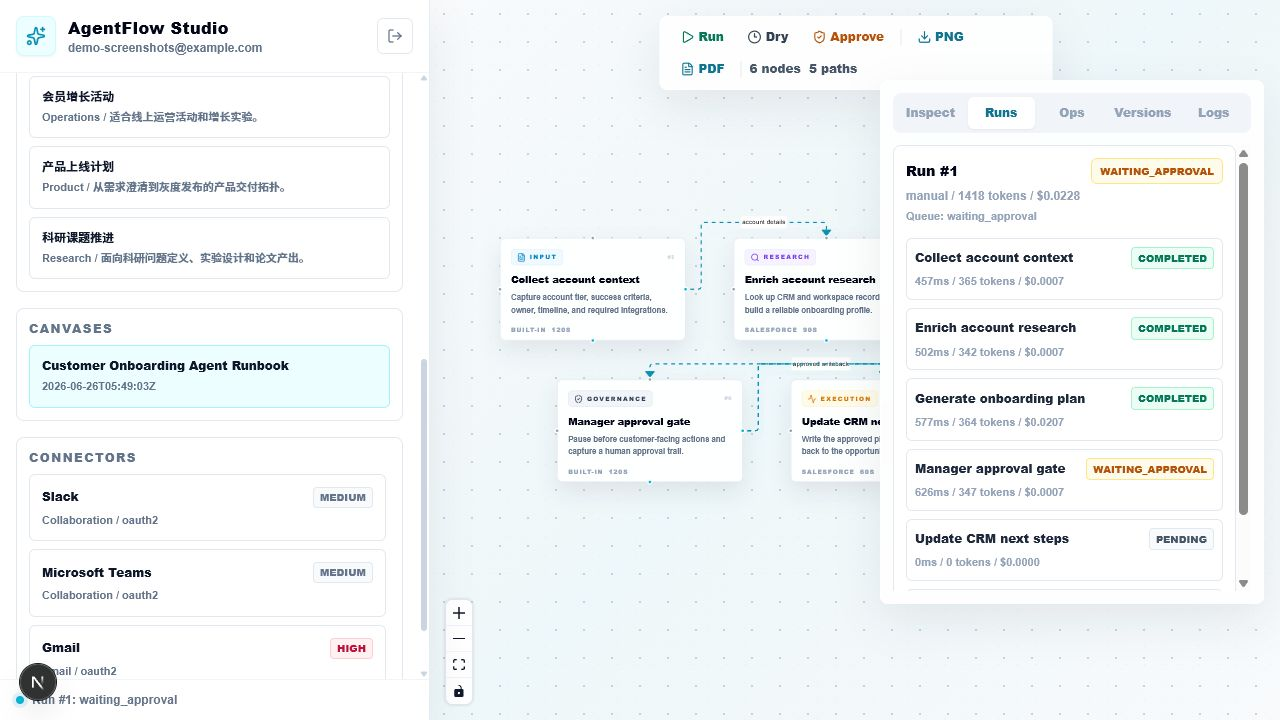
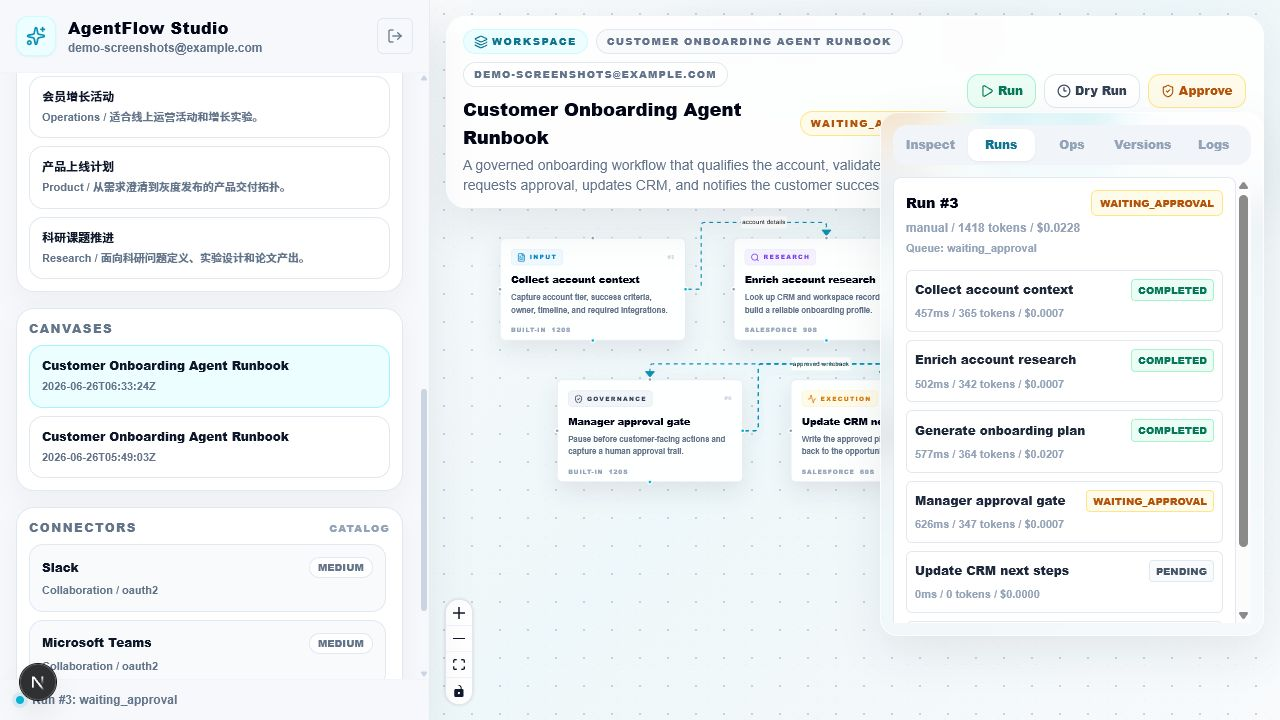
Polish frontend and refresh product screenshots

diff --git a/canvas-frontend/app/page.tsx b/canvas-frontend/app/page.tsx
@@ -227,6 +227,19 @@ const statusClass = (status: string) => {
   return 'border-cyan-200 bg-cyan-50 text-cyan-700';
 };
 
+const formatStatusLabel = (value: string) =>
+  value
+    .replaceAll('_', ' ')
+    .replace(/\b\w/g, (char) => char.toUpperCase());
+
+const kpiTone = (index: number) =>
+  [
+    'from-cyan-50 to-white border-cyan-100 text-cyan-700',
+    'from-slate-50 to-white border-slate-200 text-slate-700',
+    'from-emerald-50 to-white border-emerald-100 text-emerald-700',
+    'from-violet-50 to-white border-violet-100 text-violet-700',
+  ][index % 4];
+
 const createNodes = (items: CanvasNode[]): AgentNode[] =>
   items.map((node, index) => {
     const col = index % 3;
@@ -635,91 +648,147 @@ export default function CanvasPage() {
 
   if (!user) {
     return (
-      <main className="flex h-dvh items-center justify-center bg-[#f6f8fb] px-4 text-slate-900">
-        <div className="w-full max-w-md rounded-[8px] border border-slate-200 bg-white p-6 shadow-[0_24px_70px_rgba(15,23,42,0.08)]">
-          <div className="flex items-center gap-3">
-            <div className="flex h-11 w-11 items-center justify-center rounded-[8px] border border-cyan-100 bg-cyan-50 text-cyan-700"><Sparkles className="h-5 w-5" /></div>
-            <div><h1 className="text-lg font-black">AgentFlow Studio</h1><p className="text-xs font-semibold text-slate-500">Enterprise workflow control plane</p></div>
+      <main className="relative flex h-dvh items-center justify-center overflow-hidden bg-[#f6f8fb] px-4 text-slate-900">
+        <div className="absolute inset-0 bg-[linear-gradient(135deg,#f8fafc_0%,#edf8fb_48%,#f8fafc_100%)]" />
+        <div className="absolute inset-0 opacity-45 [background-image:radial-gradient(#94a3b8_1px,transparent_1px)] [background-size:28px_28px]" />
+        <div className="relative w-full max-w-[1160px] overflow-hidden rounded-[24px] border border-white/80 bg-white/85 shadow-[0_24px_90px_rgba(15,23,42,0.12)] backdrop-blur-xl">
+          <div className="grid gap-0 md:grid-cols-[1.15fr_0.85fr]">
+            <div className="flex flex-col justify-between border-b border-slate-100 px-8 py-8 md:border-b-0 md:border-r md:px-10 md:py-10">
+              <div>
+                <div className="inline-flex items-center gap-2 rounded-full border border-cyan-100 bg-cyan-50 px-3 py-1 text-[11px] font-black uppercase tracking-[0.18em] text-cyan-700">
+                  <Sparkles className="h-3.5 w-3.5" />
+                  AgentFlow Studio
+                </div>
+                <h1 className="mt-5 max-w-xl text-4xl font-black tracking-tight text-slate-950 md:text-5xl">Enterprise AI workflow orchestration, built for real operations.</h1>
+                <p className="mt-4 max-w-xl text-sm leading-7 text-slate-500 md:text-[15px]">Generate DAGs, run workflows, approve human gates, observe execution, and export delivery-ready artifacts from one workspace.</p>
+                <div className="mt-8 grid gap-3 sm:grid-cols-3">
+                  {[
+                    ['Runs', 'queue + approvals'],
+                    ['Connectors', 'catalog + audit'],
+                    ['Exports', 'PNG + PDF'],
+                  ].map(([title, desc]) => (
+                    <div key={title} className="rounded-[18px] border border-slate-200 bg-white/90 p-4">
+                      <div className="text-xs font-black uppercase tracking-[0.12em] text-slate-400">{title}</div>
+                      <div className="mt-2 text-sm font-semibold text-slate-900">{desc}</div>
+                    </div>
+                  ))}
+                </div>
+              </div>
+              <div className="mt-8 flex flex-wrap items-center gap-2 text-xs font-semibold text-slate-400">
+                <span className="rounded-full border border-slate-200 bg-white px-3 py-1">FastAPI</span>
+                <span className="rounded-full border border-slate-200 bg-white px-3 py-1">React Flow</span>
+                <span className="rounded-full border border-slate-200 bg-white px-3 py-1">Gemini</span>
+                <span className="rounded-full border border-slate-200 bg-white px-3 py-1">Docker Compose</span>
+              </div>
+            </div>
+
+            <div className="px-8 py-8 md:px-10 md:py-10">
+              <div className="flex items-center gap-3">
+                <div className="flex h-11 w-11 items-center justify-center rounded-[14px] border border-cyan-100 bg-cyan-50 text-cyan-700"><LockKeyhole className="h-5 w-5" /></div>
+                <div>
+                  <h2 className="text-lg font-black text-slate-950">Sign in</h2>
+                  <p className="text-xs font-semibold text-slate-500">Use the workspace to create and run workflows.</p>
+                </div>
+              </div>
+              <div className="mt-6 grid grid-cols-2 gap-1 rounded-[16px] bg-slate-100 p-1 text-sm font-black">
+                <button onClick={() => setAuthMode('login')} className={`rounded-[12px] py-2.5 ${authMode === 'login' ? 'bg-white text-cyan-700 shadow-sm' : 'text-slate-400'}`}>Login</button>
+                <button onClick={() => setAuthMode('register')} className={`rounded-[12px] py-2.5 ${authMode === 'register' ? 'bg-white text-cyan-700 shadow-sm' : 'text-slate-400'}`}>Register</button>
+              </div>
+              <div className="mt-4 space-y-3">
+                <input value={email} onChange={(event) => setEmail(event.target.value)} placeholder="Email" className="h-12 w-full rounded-[14px] border border-slate-200 bg-white px-4 text-sm font-semibold outline-none focus:border-cyan-400 focus:ring-4 focus:ring-cyan-100" />
+                <input value={password} onChange={(event) => setPassword(event.target.value)} placeholder="Password" type="password" className="h-12 w-full rounded-[14px] border border-slate-200 bg-white px-4 text-sm font-semibold outline-none focus:border-cyan-400 focus:ring-4 focus:ring-cyan-100" />
+                <button onClick={handleAuth} disabled={loading} className="inline-flex h-12 w-full items-center justify-center gap-2 rounded-[14px] bg-slate-950 text-sm font-black text-white transition hover:bg-cyan-700 disabled:bg-slate-300">
+                  {loading ? <Loader2 className="h-4 w-4 animate-spin" /> : <LockKeyhole className="h-4 w-4" />}
+                  {authMode === 'login' ? 'Enter workspace' : 'Create account'}
+                </button>
+              </div>
+              {error && <p className="mt-3 rounded-[14px] border border-amber-200 bg-amber-50 p-3 text-sm font-semibold text-amber-800">{error}</p>}
+            </div>
           </div>
-          <div className="mt-6 grid grid-cols-2 gap-1 rounded-[8px] bg-slate-100 p-1 text-sm font-black">
-            <button onClick={() => setAuthMode('login')} className={`rounded-md py-2 ${authMode === 'login' ? 'bg-white text-cyan-700 shadow-sm' : 'text-slate-400'}`}>Login</button>
-            <button onClick={() => setAuthMode('register')} className={`rounded-md py-2 ${authMode === 'register' ? 'bg-white text-cyan-700 shadow-sm' : 'text-slate-400'}`}>Register</button>
-          </div>
-          <div className="mt-4 space-y-3">
-            <input value={email} onChange={(event) => setEmail(event.target.value)} placeholder="Email" className="h-11 w-full rounded-[8px] border border-slate-200 px-3 text-sm font-semibold outline-none focus:border-cyan-400 focus:ring-4 focus:ring-cyan-100" />
-            <input value={password} onChange={(event) => setPassword(event.target.value)} placeholder="Password" type="password" className="h-11 w-full rounded-[8px] border border-slate-200 px-3 text-sm font-semibold outline-none focus:border-cyan-400 focus:ring-4 focus:ring-cyan-100" />
-            <button onClick={handleAuth} disabled={loading} className="inline-flex h-11 w-full items-center justify-center gap-2 rounded-[8px] bg-slate-950 text-sm font-black text-white transition hover:bg-cyan-700 disabled:bg-slate-300">
-              {loading ? <Loader2 className="h-4 w-4 animate-spin" /> : <LockKeyhole className="h-4 w-4" />}
-              {authMode === 'login' ? 'Enter workspace' : 'Create account'}
-            </button>
-          </div>
-          {error && <p className="mt-3 rounded-[8px] border border-amber-200 bg-amber-50 p-3 text-sm font-semibold text-amber-800">{error}</p>}
         </div>
       </main>
     );
   }
 
   return (
-    <main className="flex h-dvh w-screen flex-col overflow-hidden bg-[#f6f8fb] text-slate-900 antialiased md:flex-row">
-      <aside className="z-20 flex h-[62dvh] shrink-0 flex-col border-b border-slate-200/80 bg-white/95 shadow-[0_18px_44px_rgba(15,23,42,0.08)] backdrop-blur-2xl md:h-full md:w-[430px] md:border-b-0 md:border-r">
+    <main className="relative flex h-dvh w-screen flex-col overflow-hidden bg-[#f6f8fb] text-slate-900 antialiased md:flex-row">
+      <aside className="z-20 flex h-[62dvh] shrink-0 flex-col border-b border-slate-200/80 bg-white/92 shadow-[0_18px_44px_rgba(15,23,42,0.08)] backdrop-blur-2xl md:h-full md:w-[430px] md:border-b-0 md:border-r">
         <div className="border-b border-slate-100 px-4 py-4">
           <div className="flex items-center justify-between gap-4">
             <div className="flex min-w-0 items-center gap-3">
-              <div className="flex h-10 w-10 shrink-0 items-center justify-center rounded-[8px] border border-cyan-100 bg-cyan-50 text-cyan-600 shadow-sm"><Sparkles className="h-5 w-5" /></div>
-              <div className="min-w-0"><h1 className="truncate text-base font-black tracking-wide text-slate-950">AgentFlow Studio</h1><p className="truncate text-xs font-semibold text-slate-500">{user.email}</p></div>
+              <div className="flex h-10 w-10 shrink-0 items-center justify-center rounded-[12px] border border-cyan-100 bg-cyan-50 text-cyan-600 shadow-sm"><Sparkles className="h-5 w-5" /></div>
+              <div className="min-w-0">
+                <h1 className="truncate text-base font-black tracking-wide text-slate-950">AgentFlow Studio</h1>
+                <p className="truncate text-xs font-semibold text-slate-500">{user.email}</p>
+              </div>
             </div>
             <button onClick={handleLogout} className="flex h-9 w-9 items-center justify-center rounded-md border border-slate-200 text-slate-500 hover:text-rose-600" aria-label="Log out"><LogOut className="h-4 w-4" /></button>
           </div>
         </div>
 
         <div className="sidebar-scroll min-h-0 flex-1 overflow-y-auto px-4 py-4">
-          <div className="grid grid-cols-4 gap-2">
-            {[
-              { label: 'Projects', value: projects.length, icon: <Boxes className="h-4 w-4" /> },
-              { label: 'Canvases', value: canvases.length, icon: <Route className="h-4 w-4" /> },
-              { label: 'Runs', value: runs.length, icon: <Play className="h-4 w-4" /> },
-              { label: 'Connectors', value: connectors.length, icon: <DatabaseZap className="h-4 w-4" /> },
-            ].map((metric) => (
-              <div key={metric.label} className="rounded-[8px] border border-slate-200 bg-slate-50 p-3">
-                <div className="mb-2 text-slate-400">{metric.icon}</div>
-                <div className="font-mono text-lg font-black text-slate-950">{metric.value}</div>
-                <div className="mt-1 truncate text-[10px] font-black uppercase tracking-[0.08em] text-slate-400">{metric.label}</div>
+          <section className="rounded-[18px] border border-slate-200 bg-gradient-to-br from-slate-50 to-white p-4 shadow-[0_12px_26px_rgba(15,23,42,0.04)]">
+            <div className="flex items-end justify-between">
+              <div>
+                <div className="text-[10px] font-black uppercase tracking-[0.18em] text-slate-400">Workspace</div>
+                <div className="mt-1 text-lg font-black text-slate-950">{projects.length} projects</div>
+                <div className="text-xs font-semibold text-slate-500">{canvases.length} canvases, {runs.length} runs</div>
               </div>
-            ))}
-          </div>
-
-          <section className="mt-4 rounded-[8px] border border-slate-200 bg-white p-3">
-            <div className="mb-2 text-xs font-black uppercase tracking-[0.12em] text-slate-500">Projects</div>
-            <div className="grid grid-cols-[1fr_auto] gap-2">
-              <input value={newProjectName} onChange={(event) => setNewProjectName(event.target.value)} placeholder="New project" className="h-9 rounded-md border border-slate-200 px-3 text-xs font-semibold outline-none focus:border-cyan-400" />
-              <button onClick={createProject} className="flex h-9 w-9 items-center justify-center rounded-md bg-slate-950 text-white" aria-label="Create project"><Plus className="h-4 w-4" /></button>
+              <div className="rounded-full border border-cyan-100 bg-cyan-50 px-3 py-1 text-[10px] font-black uppercase tracking-[0.14em] text-cyan-700">Connected</div>
             </div>
-            <div className="mt-3 grid gap-2">
-              {projects.map((project) => (
-                <button key={project.id} onClick={() => selectProject(project.id)} className={`rounded-md border px-3 py-2 text-left text-xs font-bold transition ${projectId === project.id ? 'border-cyan-200 bg-cyan-50 text-cyan-800' : 'border-slate-200 text-slate-600 hover:border-cyan-200'}`}>{project.name}</button>
+            <div className="mt-4 grid grid-cols-2 gap-2">
+              {[
+                { label: 'Projects', value: projects.length, icon: <Boxes className="h-4 w-4" /> },
+                { label: 'Canvases', value: canvases.length, icon: <Route className="h-4 w-4" /> },
+                { label: 'Runs', value: runs.length, icon: <Play className="h-4 w-4" /> },
+                { label: 'Connectors', value: connectors.length, icon: <DatabaseZap className="h-4 w-4" /> },
+              ].map((metric, index) => (
+                <div key={metric.label} className={`rounded-[16px] border bg-gradient-to-br p-3 shadow-sm ${kpiTone(index)}`}>
+                  <div className="mb-2 flex items-center justify-between">
+                    <div className="text-slate-400">{metric.icon}</div>
+                    <div className="font-mono text-xl font-black text-slate-950">{metric.value}</div>
+                  </div>
+                  <div className="text-[10px] font-black uppercase tracking-[0.08em] text-slate-400">{metric.label}</div>
+                </div>
               ))}
             </div>
           </section>
 
-          <section className="mt-4">
+          <section className="mt-4 rounded-[18px] border border-slate-200 bg-white p-3 shadow-[0_12px_26px_rgba(15,23,42,0.04)]">
+            <div className="mb-2 flex items-center justify-between">
+              <div className="text-xs font-black uppercase tracking-[0.12em] text-slate-500">Projects</div>
+              <span className="rounded-full border border-slate-200 bg-slate-50 px-2 py-0.5 text-[10px] font-black uppercase tracking-[0.12em] text-slate-400">Workspace</span>
+            </div>
+            <div className="grid grid-cols-[1fr_auto] gap-2">
+              <input value={newProjectName} onChange={(event) => setNewProjectName(event.target.value)} placeholder="New project" className="h-10 rounded-[12px] border border-slate-200 px-3 text-xs font-semibold outline-none focus:border-cyan-400" />
+              <button onClick={createProject} className="flex h-10 w-10 items-center justify-center rounded-[12px] bg-slate-950 text-white" aria-label="Create project"><Plus className="h-4 w-4" /></button>
+            </div>
+            <div className="mt-3 grid gap-2">
+              {projects.map((project) => (
+                <button key={project.id} onClick={() => selectProject(project.id)} className={`rounded-[14px] border px-3 py-2.5 text-left text-xs font-bold transition ${projectId === project.id ? 'border-cyan-200 bg-cyan-50 text-cyan-800' : 'border-slate-200 text-slate-600 hover:border-cyan-200 hover:bg-slate-50'}`}>{project.name}</button>
+              ))}
+            </div>
+          </section>
+
+          <section className="mt-4 rounded-[18px] border border-slate-200 bg-white p-3 shadow-[0_12px_26px_rgba(15,23,42,0.04)]">
             <div className="mb-2 flex items-center justify-between">
               <label htmlFor="prompt" className="text-xs font-black uppercase tracking-[0.12em] text-slate-500">Prompt</label>
-              <select value={profile} onChange={(event) => setProfile(event.target.value)} className="h-8 rounded-md border border-slate-200 bg-white px-2 text-xs font-bold text-slate-600">
+              <select value={profile} onChange={(event) => setProfile(event.target.value)} className="h-8 rounded-[10px] border border-slate-200 bg-white px-2 text-xs font-bold text-slate-600">
                 {profiles.map((item) => <option key={item.id} value={item.id}>{item.label}</option>)}
               </select>
             </div>
-            <textarea id="prompt" className="h-28 w-full resize-none rounded-[8px] border border-slate-200 bg-white p-3 text-sm font-semibold leading-relaxed text-slate-700 outline-none transition placeholder:text-slate-300 focus:border-cyan-400 focus:ring-4 focus:ring-cyan-100" placeholder="Describe the workflow goal..." value={prompt} onChange={(event) => setPrompt(event.target.value)} />
-            <button type="button" onClick={generateCanvas} disabled={loading || !prompt.trim() || !projectId} className="mt-3 inline-flex h-11 w-full items-center justify-center gap-2 rounded-[8px] bg-slate-950 px-4 text-sm font-black text-white shadow-[0_14px_28px_rgba(15,23,42,0.2)] transition hover:bg-cyan-700 disabled:cursor-not-allowed disabled:bg-slate-300 disabled:shadow-none">
+            <textarea id="prompt" className="h-28 w-full resize-none rounded-[14px] border border-slate-200 bg-white p-3 text-sm font-semibold leading-relaxed text-slate-700 outline-none transition placeholder:text-slate-300 focus:border-cyan-400 focus:ring-4 focus:ring-cyan-100" placeholder="Describe the workflow goal..." value={prompt} onChange={(event) => setPrompt(event.target.value)} />
+            <button type="button" onClick={generateCanvas} disabled={loading || !prompt.trim() || !projectId} className="mt-3 inline-flex h-11 w-full items-center justify-center gap-2 rounded-[14px] bg-slate-950 px-4 text-sm font-black text-white shadow-[0_14px_28px_rgba(15,23,42,0.2)] transition hover:bg-cyan-700 disabled:cursor-not-allowed disabled:bg-slate-300 disabled:shadow-none">
               {loading ? <Loader2 className="h-4 w-4 animate-spin" /> : <WandSparkles className="h-4 w-4" />}
               Generate and Save
             </button>
           </section>
 
-          <section className="mt-4 rounded-[8px] border border-slate-200 bg-white p-3">
+          <section className="mt-4 rounded-[18px] border border-slate-200 bg-white p-3 shadow-[0_12px_26px_rgba(15,23,42,0.04)]">
             <div className="mb-2 text-xs font-black uppercase tracking-[0.12em] text-slate-500">Templates</div>
             <div className="grid gap-2">
               {templates.map((template) => (
-                <button key={template.id} onClick={() => applyTemplate(template)} className="rounded-md border border-slate-200 p-3 text-left transition hover:border-cyan-200 hover:bg-cyan-50">
+                <button key={template.id} onClick={() => applyTemplate(template)} className="rounded-[14px] border border-slate-200 p-3 text-left transition hover:border-cyan-200 hover:bg-cyan-50">
                   <div className="text-xs font-black text-slate-900">{template.name}</div>
                   <div className="mt-1 text-[11px] font-semibold text-slate-500">{template.category} / {template.description}</div>
                 </button>
@@ -727,11 +796,11 @@ export default function CanvasPage() {
             </div>
           </section>
 
-          <section className="mt-4 rounded-[8px] border border-slate-200 bg-white p-3">
+          <section className="mt-4 rounded-[18px] border border-slate-200 bg-white p-3 shadow-[0_12px_26px_rgba(15,23,42,0.04)]">
             <div className="mb-2 text-xs font-black uppercase tracking-[0.12em] text-slate-500">Canvases</div>
             <div className="grid gap-2">
               {canvases.map((canvas) => (
-                <button key={canvas.id} onClick={() => openCanvas(canvas)} className={`rounded-md border p-3 text-left transition ${activeCanvas?.id === canvas.id ? 'border-cyan-200 bg-cyan-50' : 'border-slate-200 hover:border-cyan-200'}`}>
+                <button key={canvas.id} onClick={() => openCanvas(canvas)} className={`rounded-[14px] border p-3 text-left transition ${activeCanvas?.id === canvas.id ? 'border-cyan-200 bg-cyan-50' : 'border-slate-200 hover:border-cyan-200 hover:bg-slate-50'}`}>
                   <div className="text-xs font-black text-slate-900">{canvas.title}</div>
                   <div className="mt-1 text-[11px] font-semibold text-slate-500">{canvas.updated_at}</div>
                 </button>
@@ -739,14 +808,17 @@ export default function CanvasPage() {
             </div>
           </section>
 
-          <section className="mt-4 rounded-[8px] border border-slate-200 bg-white p-3">
-            <div className="mb-2 text-xs font-black uppercase tracking-[0.12em] text-slate-500">Connectors</div>
+          <section className="mt-4 rounded-[18px] border border-slate-200 bg-white p-3 shadow-[0_12px_26px_rgba(15,23,42,0.04)]">
+            <div className="mb-2 flex items-center justify-between">
+              <div className="text-xs font-black uppercase tracking-[0.12em] text-slate-500">Connectors</div>
+              <div className="text-[10px] font-black uppercase tracking-[0.12em] text-slate-400">Catalog</div>
+            </div>
             <div className="grid max-h-64 gap-2 overflow-y-auto pr-1">
               {connectors.map((connector) => (
-                <div key={connector.id} className="rounded-md border border-slate-200 p-3">
+                <div key={connector.id} className="rounded-[14px] border border-slate-200 bg-slate-50 p-3">
                   <div className="flex items-center justify-between gap-2">
                     <div className="text-xs font-black text-slate-900">{connector.name}</div>
-                    <span className={`rounded border px-1.5 py-0.5 text-[10px] font-black uppercase ${connector.risk_level === 'high' ? 'border-rose-200 bg-rose-50 text-rose-700' : 'border-slate-200 bg-slate-50 text-slate-500'}`}>{connector.risk_level}</span>
+                    <span className={`rounded-full border px-2 py-0.5 text-[10px] font-black uppercase ${connector.risk_level === 'high' ? 'border-rose-200 bg-rose-50 text-rose-700' : 'border-slate-200 bg-white text-slate-500'}`}>{connector.risk_level}</span>
                   </div>
                   <div className="mt-1 text-[11px] font-semibold text-slate-500">{connector.category} / {connector.auth_type}</div>
                 </div>
@@ -767,36 +839,70 @@ export default function CanvasPage() {
         <div className="absolute inset-0 bg-[linear-gradient(135deg,#f8fafc_0%,#eef7f9_48%,#f8fafc_100%)]" />
         <div className="absolute inset-0 opacity-45 [background-image:radial-gradient(#94a3b8_1px,transparent_1px)] [background-size:28px_28px]" />
 
+        <div className="absolute left-4 right-4 top-4 z-10 rounded-[20px] border border-white/80 bg-white/90 px-4 py-3 shadow-[0_16px_44px_rgba(15,23,42,0.08)] backdrop-blur-xl">
+          <div className="flex flex-col gap-3 lg:flex-row lg:items-center lg:justify-between">
+            <div className="min-w-0">
+              <div className="flex flex-wrap items-center gap-2">
+                <span className="inline-flex items-center gap-1 rounded-full border border-cyan-100 bg-cyan-50 px-2.5 py-1 text-[10px] font-black uppercase tracking-[0.16em] text-cyan-700">
+                  <Layers3 className="h-3.5 w-3.5" />
+                  Workspace
+                </span>
+                {activeCanvas ? <span className="rounded-full border border-slate-200 bg-slate-50 px-2.5 py-1 text-[10px] font-black uppercase tracking-[0.12em] text-slate-500">{activeCanvas.title}</span> : null}
+                <span className="rounded-full border border-slate-200 bg-white px-2.5 py-1 text-[10px] font-black uppercase tracking-[0.12em] text-slate-500">{user.email}</span>
+              </div>
+              <div className="mt-2 flex items-center gap-3">
+                <h2 className="text-lg font-black text-slate-950">{activeCanvas?.title || 'Canvas workspace'}</h2>
+                <span className={`rounded-full border px-2.5 py-1 text-[10px] font-black uppercase tracking-[0.12em] ${latestRun ? statusClass(latestRun.status) : 'border-slate-200 bg-slate-50 text-slate-500'}`}>{latestRun ? latestRun.status : 'idle'}</span>
+              </div>
+              <p className="mt-1 max-w-3xl text-sm text-slate-500">{activeCanvas?.summary || summary}</p>
+            </div>
+            <div className="flex flex-wrap items-center gap-2">
+              <button onClick={() => runCanvas(false)} disabled={!activeCanvas || loading} className="inline-flex items-center gap-1 rounded-[12px] border border-emerald-200 bg-emerald-50 px-3 py-2 text-xs font-black text-emerald-700 disabled:cursor-not-allowed disabled:border-slate-200 disabled:bg-slate-100 disabled:text-slate-400"><Play className="h-3.5 w-3.5" /> Run</button>
+              <button onClick={() => runCanvas(true)} disabled={!activeCanvas || loading} className="inline-flex items-center gap-1 rounded-[12px] border border-slate-200 bg-white px-3 py-2 text-xs font-black text-slate-700 disabled:cursor-not-allowed disabled:text-slate-400"><Clock3 className="h-3.5 w-3.5" /> Dry Run</button>
+              {waitingStep && <button onClick={() => approveWaitingStep(true)} disabled={loading} className="inline-flex items-center gap-1 rounded-[12px] border border-amber-200 bg-amber-50 px-3 py-2 text-xs font-black text-amber-700"><ShieldCheck className="h-3.5 w-3.5" /> Approve</button>}
+              <button onClick={exportPng} className="inline-flex items-center gap-1 rounded-[12px] border border-cyan-200 bg-cyan-50 px-3 py-2 text-xs font-black text-cyan-700"><Download className="h-3.5 w-3.5" /> PNG</button>
+              <button onClick={exportPdf} className="inline-flex items-center gap-1 rounded-[12px] border border-cyan-200 bg-cyan-50 px-3 py-2 text-xs font-black text-cyan-700"><FileText className="h-3.5 w-3.5" /> PDF</button>
+            </div>
+          </div>
+        </div>
+
         {hasCanvas ? (
           <ReactFlow nodes={nodes} edges={edges} nodeTypes={nodeTypes} onNodesChange={onNodesChange} onEdgesChange={onEdgesChange} onNodeClick={(_, node) => setSelectedNodeDetails(node.data.rawDetails)} onPaneClick={() => setSelectedNodeDetails(null)} fitView fitViewOptions={{ padding: 0.2 }} minZoom={0.25} maxZoom={1.5} proOptions={{ hideAttribution: true }}>
             <Background color="#d7e3ec" gap={28} size={1} />
-            <Controls className="overflow-hidden rounded-[8px] border border-slate-200 bg-white shadow-lg [&_button]:border-slate-100 [&_button]:bg-white [&_svg]:fill-slate-500" />
+            <Controls className="overflow-hidden rounded-[14px] border border-slate-200 bg-white shadow-lg [&_button]:border-slate-100 [&_button]:bg-white [&_svg]:fill-slate-500" />
             <Panel position="top-center" className="!m-4">
-              <div className="flex flex-wrap items-center gap-2 rounded-[8px] border border-white/80 bg-white/90 px-3 py-2 text-xs font-black text-slate-600 shadow-[0_16px_44px_rgba(15,23,42,0.08)] backdrop-blur-xl">
-                <button onClick={() => runCanvas(false)} disabled={!activeCanvas || loading} className="inline-flex items-center gap-1 rounded-md px-2 py-1 text-emerald-700 hover:bg-emerald-50 disabled:text-slate-300"><Play className="h-3.5 w-3.5" /> Run</button>
-                <button onClick={() => runCanvas(true)} disabled={!activeCanvas || loading} className="inline-flex items-center gap-1 rounded-md px-2 py-1 text-slate-700 hover:bg-slate-50 disabled:text-slate-300"><Clock3 className="h-3.5 w-3.5" /> Dry</button>
-                {waitingStep && <button onClick={() => approveWaitingStep(true)} disabled={loading} className="inline-flex items-center gap-1 rounded-md px-2 py-1 text-amber-700 hover:bg-amber-50"><ShieldCheck className="h-3.5 w-3.5" /> Approve</button>}
-                <span className="h-4 w-px bg-slate-200" />
-                <button onClick={exportPng} className="inline-flex items-center gap-1 rounded-md px-2 py-1 text-cyan-700 hover:bg-cyan-50"><Download className="h-3.5 w-3.5" /> PNG</button>
-                <button onClick={exportPdf} className="inline-flex items-center gap-1 rounded-md px-2 py-1 text-cyan-700 hover:bg-cyan-50"><FileText className="h-3.5 w-3.5" /> PDF</button>
-                <span className="h-4 w-px bg-slate-200" />
-                <span>{nodes.length} nodes</span>
-                <span>{edges.length} paths</span>
+              <div className="flex flex-wrap items-center gap-2 rounded-[16px] border border-white/80 bg-white/90 px-3 py-2 text-xs font-black text-slate-600 shadow-[0_16px_44px_rgba(15,23,42,0.08)] backdrop-blur-xl">
+                <span className="inline-flex items-center gap-1 rounded-full border border-slate-200 bg-slate-50 px-2 py-1">{nodes.length} nodes</span>
+                <span className="inline-flex items-center gap-1 rounded-full border border-slate-200 bg-slate-50 px-2 py-1">{edges.length} paths</span>
+                <span className="inline-flex items-center gap-1 rounded-full border border-slate-200 bg-slate-50 px-2 py-1">{runs.length} runs</span>
+                <span className="inline-flex items-center gap-1 rounded-full border border-slate-200 bg-slate-50 px-2 py-1">{connectors.length} connectors</span>
               </div>
             </Panel>
           </ReactFlow>
         ) : (
-          <div className="relative z-10 flex h-full items-center justify-center px-6">
-            <div className="max-w-xl rounded-[8px] border border-white/80 bg-white/88 p-8 text-center shadow-[0_24px_70px_rgba(15,23,42,0.08)] backdrop-blur-xl">
-              <div className="mx-auto flex h-12 w-12 items-center justify-center rounded-[8px] border border-cyan-100 bg-cyan-50 text-cyan-700"><Layers3 className="h-6 w-6" /></div>
-              <h2 className="mt-4 text-xl font-black text-slate-950">Workspace Ready</h2>
+          <div className="relative z-10 flex h-full items-center justify-center px-6 pt-20">
+            <div className="max-w-2xl rounded-[24px] border border-white/80 bg-white/90 p-10 text-center shadow-[0_24px_70px_rgba(15,23,42,0.08)] backdrop-blur-xl">
+              <div className="mx-auto flex h-14 w-14 items-center justify-center rounded-[18px] border border-cyan-100 bg-cyan-50 text-cyan-700"><Layers3 className="h-7 w-7" /></div>
+              <h2 className="mt-5 text-2xl font-black text-slate-950">Select a project and generate a workflow</h2>
               <p className="mt-3 text-sm font-semibold leading-relaxed text-slate-500">{summary}</p>
+              <div className="mt-6 grid gap-3 text-left sm:grid-cols-3">
+                {[
+                  ['Prompt to DAG', 'Describe the goal and generate a structured workflow.'],
+                  ['Approval gate', 'Pause human decisions before sensitive actions.'],
+                  ['Run history', 'Observe steps, logs, and connector invocations.'],
+                ].map(([title, desc]) => (
+                  <div key={title} className="rounded-[18px] border border-slate-200 bg-slate-50 p-4">
+                    <div className="text-xs font-black uppercase tracking-[0.12em] text-slate-400">{title}</div>
+                    <div className="mt-2 text-sm font-semibold text-slate-700">{desc}</div>
+                  </div>
+                ))}
+              </div>
             </div>
           </div>
         )}
 
-        <aside className="absolute right-4 top-20 z-10 hidden w-96 rounded-[8px] border border-white/80 bg-white/90 p-3 shadow-[0_16px_44px_rgba(15,23,42,0.08)] backdrop-blur-xl xl:block">
-          <div className="grid grid-cols-5 gap-1 rounded-[8px] bg-slate-100 p-1">
+        <aside className="absolute right-4 top-28 z-10 hidden w-96 rounded-[18px] border border-white/80 bg-white/92 p-3 shadow-[0_16px_44px_rgba(15,23,42,0.08)] backdrop-blur-xl xl:block">
+          <div className="grid grid-cols-5 gap-1 rounded-[14px] bg-slate-100 p-1">
             {[
               ['inspect', 'Inspect'],
               ['runs', 'Runs'],
@@ -804,11 +910,11 @@ export default function CanvasPage() {
               ['versions', 'Versions'],
               ['logs', 'Logs'],
             ].map(([key, label]) => (
-              <button key={key} onClick={() => setActiveTab(key as RightTab)} className={`rounded-md py-2 text-xs font-black ${activeTab === key ? 'bg-white text-cyan-700 shadow-sm' : 'text-slate-400'}`}>{label}</button>
+              <button key={key} onClick={() => setActiveTab(key as RightTab)} className={`rounded-[10px] py-2 text-xs font-black ${activeTab === key ? 'bg-white text-cyan-700 shadow-sm' : 'text-slate-400'}`}>{label}</button>
             ))}
           </div>
           <div className="mt-3 max-h-[62vh] overflow-y-auto text-sm font-semibold leading-relaxed text-slate-600">
-            {error ? <div className="rounded-[8px] border border-amber-200 bg-amber-50 p-3 text-amber-900">{error}</div> : null}
+            {error ? <div className="rounded-[14px] border border-amber-200 bg-amber-50 p-3 text-amber-900">{error}</div> : null}
             {!error && activeTab === 'inspect' && (
               selectedNodeDetails ? (
                 <div>